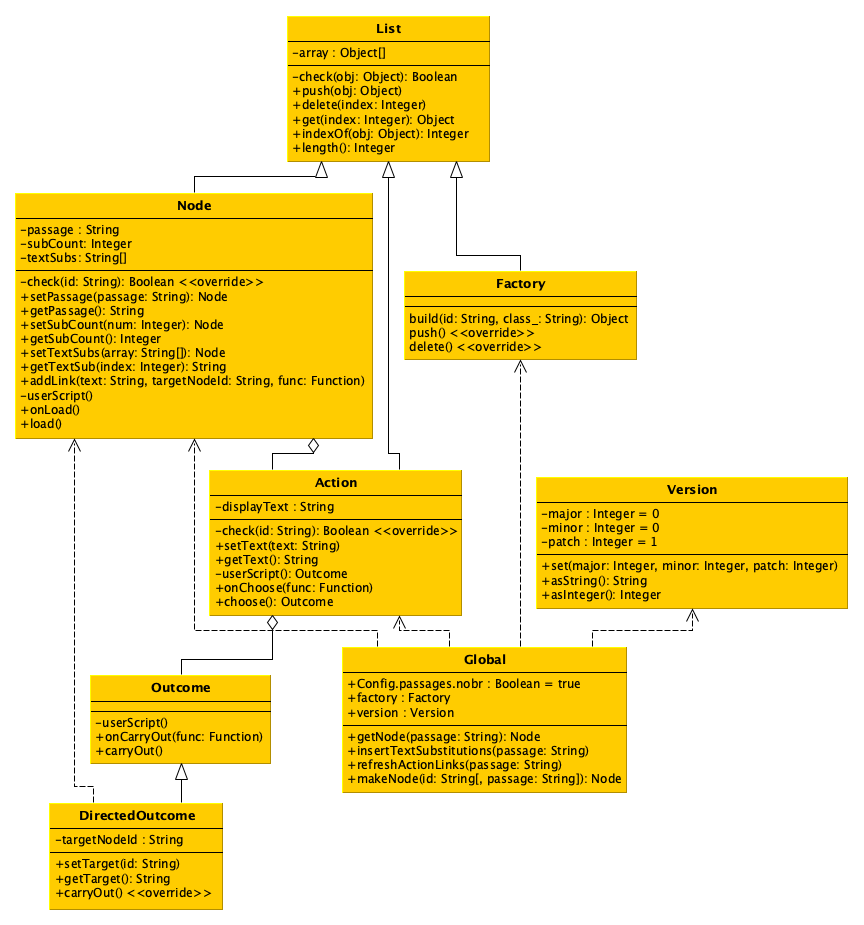
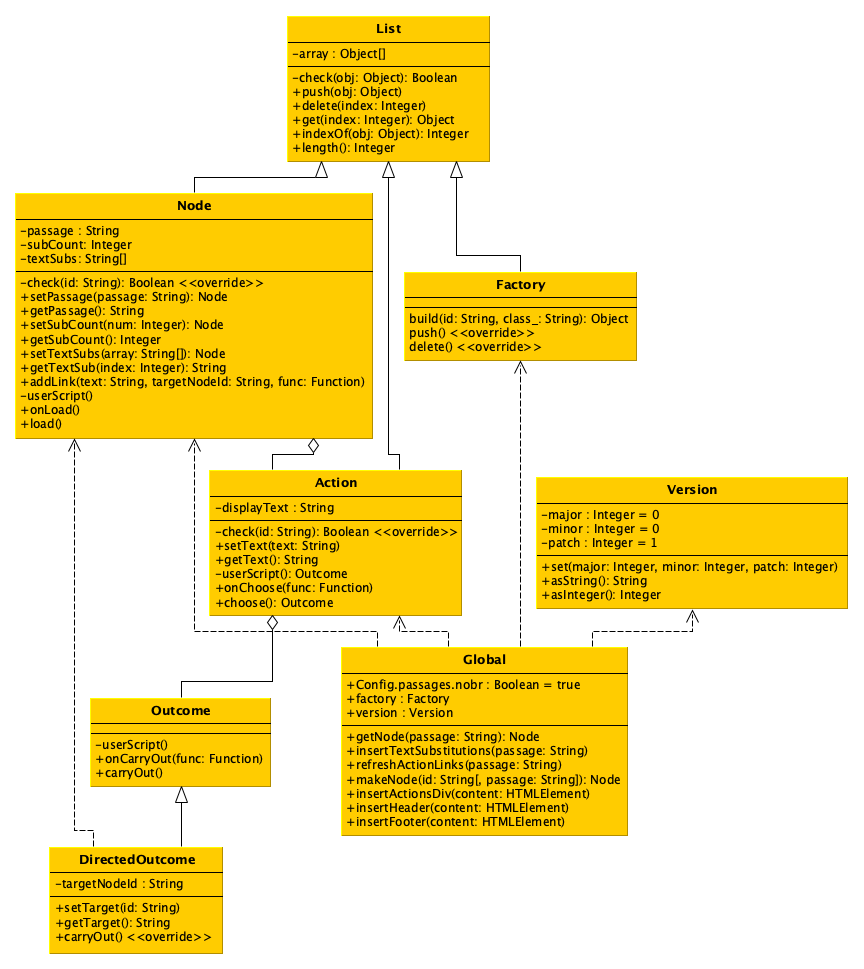
version 0.1.6
see change log

Changed region(s): [[0.0, 0.0, 1.0, 0.8778], [0.0625, 0.6962, 0.3125, 0.9989], [0.4688, 0.2724, 0.75, 0.3935]]

diff --git a/bear-fight.html b/bear-fight.html
@@ -847,7 +847,64 @@ s.makeNode = function(id, passage) {
     node.setPassage(passage);
     return node;
 }
-/* twine-user-script #8: "0080-passagedisplay.js" */
+/* twine-user-script #8: "0073-passagestart.js" */
+/*
+This file records the `:passagestart` event handlers.
+*/
+
+//----------------------------------------------------------------------
+
+s.insertHeader = function(content) {
+    /*
+    Inserts the custom header passage, `:: NodeHeader`.
+    */
+    if (Story.has('NodeHeader')) {
+        $(content).wiki(
+            '<<include "NodeHeader">>'
+        );
+    }
+    return;
+}
+
+$(document).on(':passagestart', function(ev) {
+    s.insertHeader(ev.content);
+    return;
+});
+/* twine-user-script #9: "0076-passagerender.js" */
+/*
+This file records the `:passagerender` event handlers.
+*/
+
+//----------------------------------------------------------------------
+
+s.insertActionsDiv = function(content) {
+    /*
+    Inserts the container into which action links will be placed.
+    */
+    $(content).wiki(
+        '<div id="actions"></div>'
+    );
+    return;
+}
+
+s.insertFooter = function(content) {
+    /*
+    Inserts the custom header passage, `:: NodeFooter`.
+    */
+    if (Story.has('NodeFooter')) {
+        $(content).wiki(
+            '<<include "NodeFooter">>'
+        );
+    }
+    return;
+}
+
+$(document).on(':passagerender', function(ev) {
+    s.insertActionsDiv(ev.content);
+    s.insertFooter(ev.content);
+    return;
+});
+/* twine-user-script #10: "0080-passagedisplay.js" */
 /*
 This file records the `:passagedisplay` event handlers.
 */
@@ -913,7 +970,7 @@ $(document).on(':passagedisplay', function(ev) {
     s.refreshActionLinks(ev.passage.title);
     return;
 });
-/* twine-user-script #9: "0090-DirectedOutcome.js" */
+/* twine-user-script #11: "0090-DirectedOutcome.js" */
 s.DirectedOutcome = function() {
     /*
     `DirectedOutcome` is a subclass of `Outcome`. A directed outcome is
@@ -1025,8 +1082,8 @@ s.Node.prototype.addLink = function(text, targetNodeId, func) {
 
     return this;
 }
-/* twine-user-script #10: "9000-main.js" */
-v.version.set(0,1,5);
+/* twine-user-script #12: "9000-main.js" */
+v.version.set(0,1,6);
 
 /*
 Sample code demonstrating the node system.
@@ -1071,9 +1128,9 @@ v.root.addLink(
         v.bearChases.setTextSubs(['toward the lounge']);
     }
 );
-/* twine-user-script #11: "Story JavaScript" */
+/* twine-user-script #13: "Story JavaScript" */
 </script><tw-passagedata pid="1" name="StorySubtitle" tags="" position="100,100" size="100,100">Story Subtitle</tw-passagedata><tw-passagedata pid="2" name="StoryAuthor" tags="" position="225,100" size="100,100">Story Author</tw-passagedata><tw-passagedata pid="3" name="StoryBanner" tags="" position="350,100" size="100,100">Story Banner</tw-passagedata><tw-passagedata pid="4" name="StoryCaption" tags="" position="475,100" size="100,100">Story Caption</tw-passagedata><tw-passagedata pid="5" name="StoryMenu" tags="" position="600,100" size="100,100">&lt;&lt;link &#39;menu item 1&#39;&gt;&gt;&lt;&lt;/link&gt;&gt;
-&lt;&lt;link &#39;menu item 2&#39;&gt;&gt;&lt;&lt;/link&gt;&gt;</tw-passagedata><tw-passagedata pid="6" name="StoryInit" tags="" position="725,100" size="100,100"></tw-passagedata><tw-passagedata pid="7" name="PassageHeader" tags="" position="850,100" size="100,100">&lt;&lt;if !tags().includes(&quot;no-header&quot;)&gt;&gt;
+&lt;&lt;link &#39;menu item 2&#39;&gt;&gt;&lt;&lt;/link&gt;&gt;</tw-passagedata><tw-passagedata pid="6" name="StoryInit" tags="" position="725,100" size="100,100"></tw-passagedata><tw-passagedata pid="7" name="NodeHeader" tags="" position="850,100" size="100,100">&lt;&lt;if !tags().includes(&quot;no-header&quot;)&gt;&gt;
     This is the header.
     &lt;hr&gt;
     &lt;p&gt;(XP: $XP, knowledge:
@@ -1083,8 +1140,7 @@ v.root.addLink(
             $knowledge)
         &lt;&lt;/if&gt;&gt;
     &lt;/p&gt;
-&lt;&lt;/if&gt;&gt;</tw-passagedata><tw-passagedata pid="8" name="PassageFooter" tags="" position="975,100" size="100,100">&lt;div id=&#39;actions&#39;&gt;&lt;/div&gt;
-&lt;&lt;if !tags().includes(&quot;no-header&quot;)&gt;&gt;
+&lt;&lt;/if&gt;&gt;</tw-passagedata><tw-passagedata pid="8" name="NodeFooter" tags="" position="975,100" size="100,100">&lt;&lt;if !tags().includes(&quot;no-header&quot;)&gt;&gt;
     &lt;hr&gt;
     This is the footer.
 &lt;&lt;/if&gt;&gt;</tw-passagedata><tw-passagedata pid="9" name="Start" tags="no-header" position="1100,100" size="100,100">&lt;div align=&quot;center&quot;&gt;

diff --git a/src/javascript/0076-passagerender.js b/src/javascript/0076-passagerender.js
@@ -1,0 +1,33 @@
+/*
+This file records the `:passagerender` event handlers.
+*/
+
+//----------------------------------------------------------------------
+
+s.insertActionsDiv = function(content) {
+    /*
+    Inserts the container into which action links will be placed.
+    */
+    $(content).wiki(
+        '<div id="actions"></div>'
+    );
+    return;
+}
+
+s.insertFooter = function(content) {
+    /*
+    Inserts the custom header passage, `:: NodeFooter`.
+    */
+    if (Story.has('NodeFooter')) {
+        $(content).wiki(
+            '<<include "NodeFooter">>'
+        );
+    }
+    return;
+}
+
+$(document).on(':passagerender', function(ev) {
+    s.insertActionsDiv(ev.content);
+    s.insertFooter(ev.content);
+    return;
+});

diff --git a/src/javascript/0073-passagestart.js b/src/javascript/0073-passagestart.js
@@ -1,0 +1,22 @@
+/*
+This file records the `:passagestart` event handlers.
+*/
+
+//----------------------------------------------------------------------
+
+s.insertHeader = function(content) {
+    /*
+    Inserts the custom header passage, `:: NodeHeader`.
+    */
+    if (Story.has('NodeHeader')) {
+        $(content).wiki(
+            '<<include "NodeHeader">>'
+        );
+    }
+    return;
+}
+
+$(document).on(':passagestart', function(ev) {
+    s.insertHeader(ev.content);
+    return;
+});

diff --git a/change-log.html b/change-log.html
@@ -265,6 +265,11 @@ pre[data-line] .line-highlight[data-end]:after {
       <div class="mume markdown-preview  ">
       <h1 class="mume-header" id="change-log">Change Log</h1>
 
+<h2 class="mume-header" id="version-016">Version 0.1.6</h2>
+
+<ul>
+<li>Added custom header and footer passages for greater control over managing the rendering of passages.</li>
+</ul>
 <h2 class="mume-header" id="version-015">Version 0.1.5</h2>
 
 <ul>

diff --git a/src/javascript/9000-main.js b/src/javascript/9000-main.js
@@ -1,4 +1,4 @@
-v.version.set(0,1,5);
+v.version.set(0,1,6);
 
 /*
 Sample code demonstrating the node system.

diff --git a/change-log.md b/change-log.md
@@ -4,6 +4,10 @@ title: Change Log
 
 # Change Log
 
+## Version 0.1.6
+
+* Added custom header and footer passages for greater control over managing the rendering of passages.
+
 ## Version 0.1.5
 
 * Added `_userScript()` and related methods to outcomes, actions, and nodes, for greater flexibility in making subclasses.
